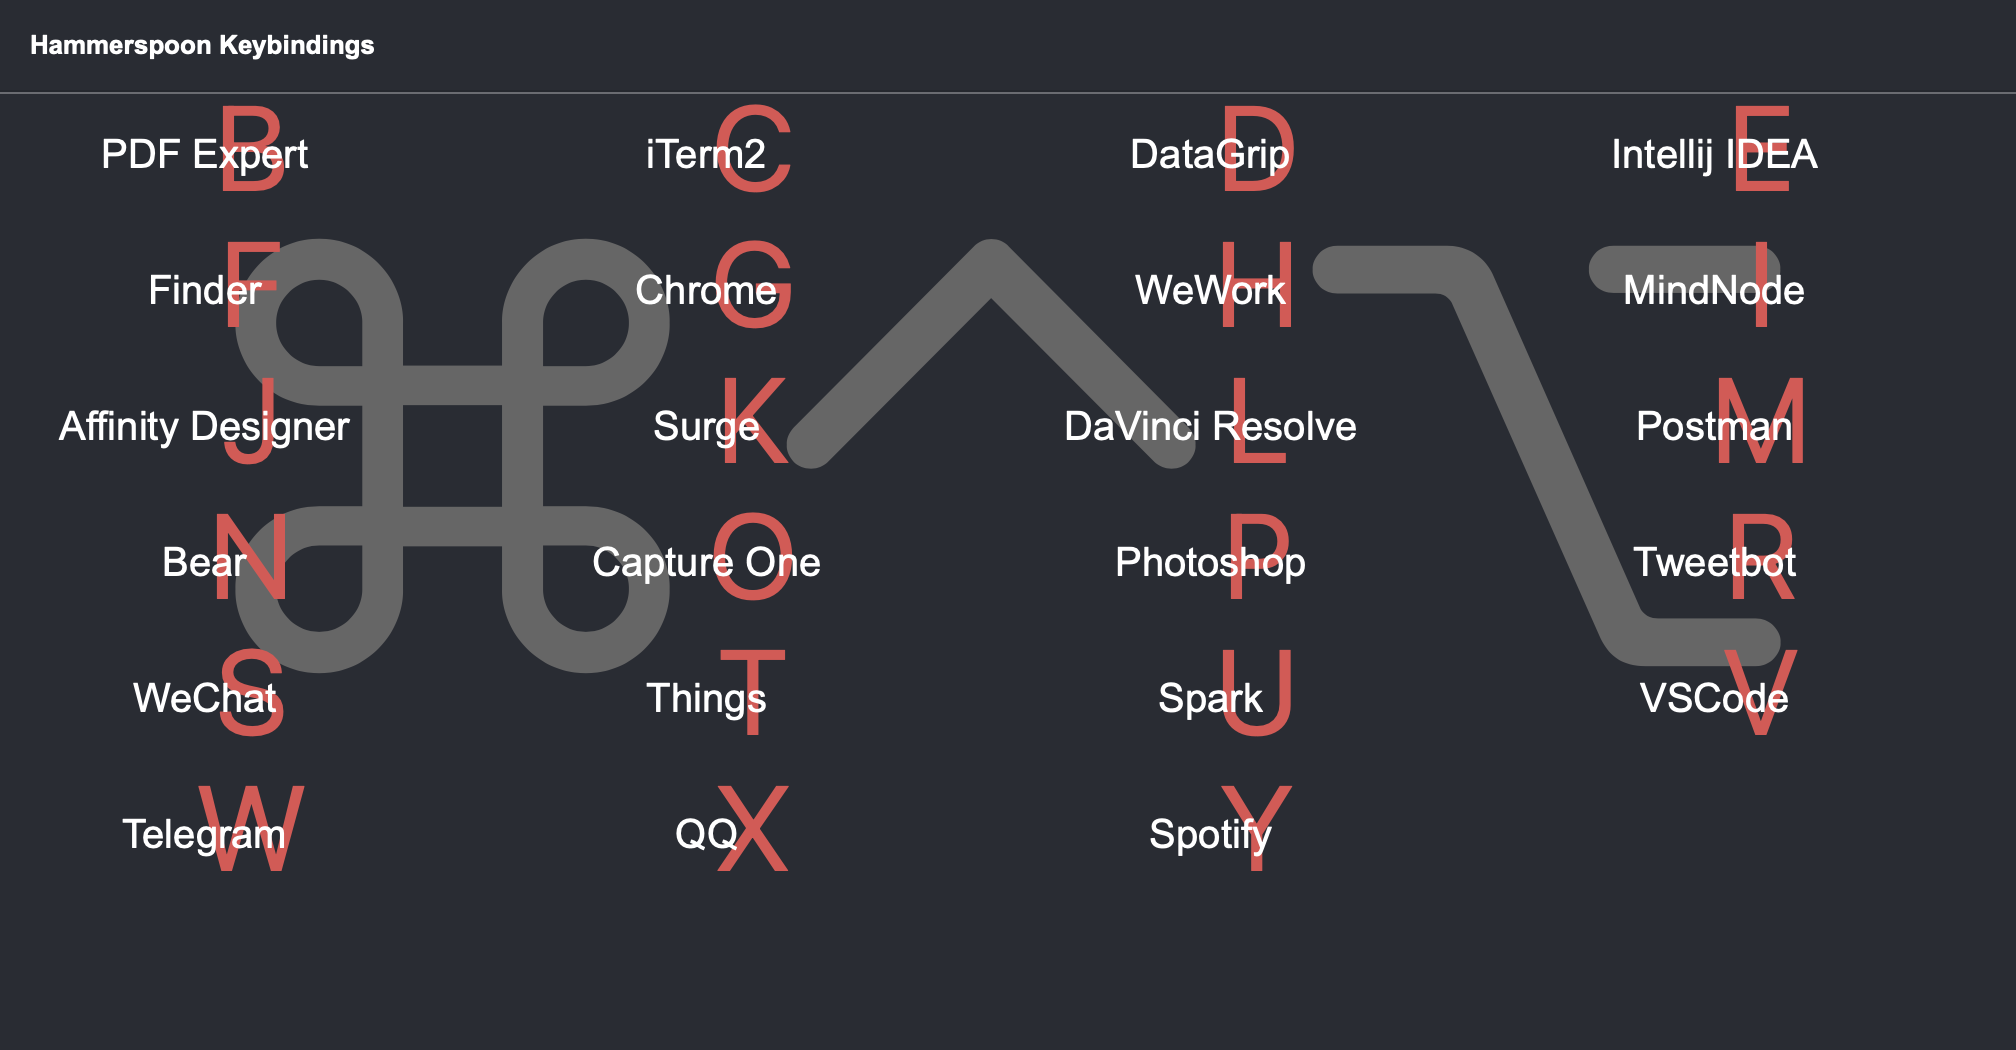
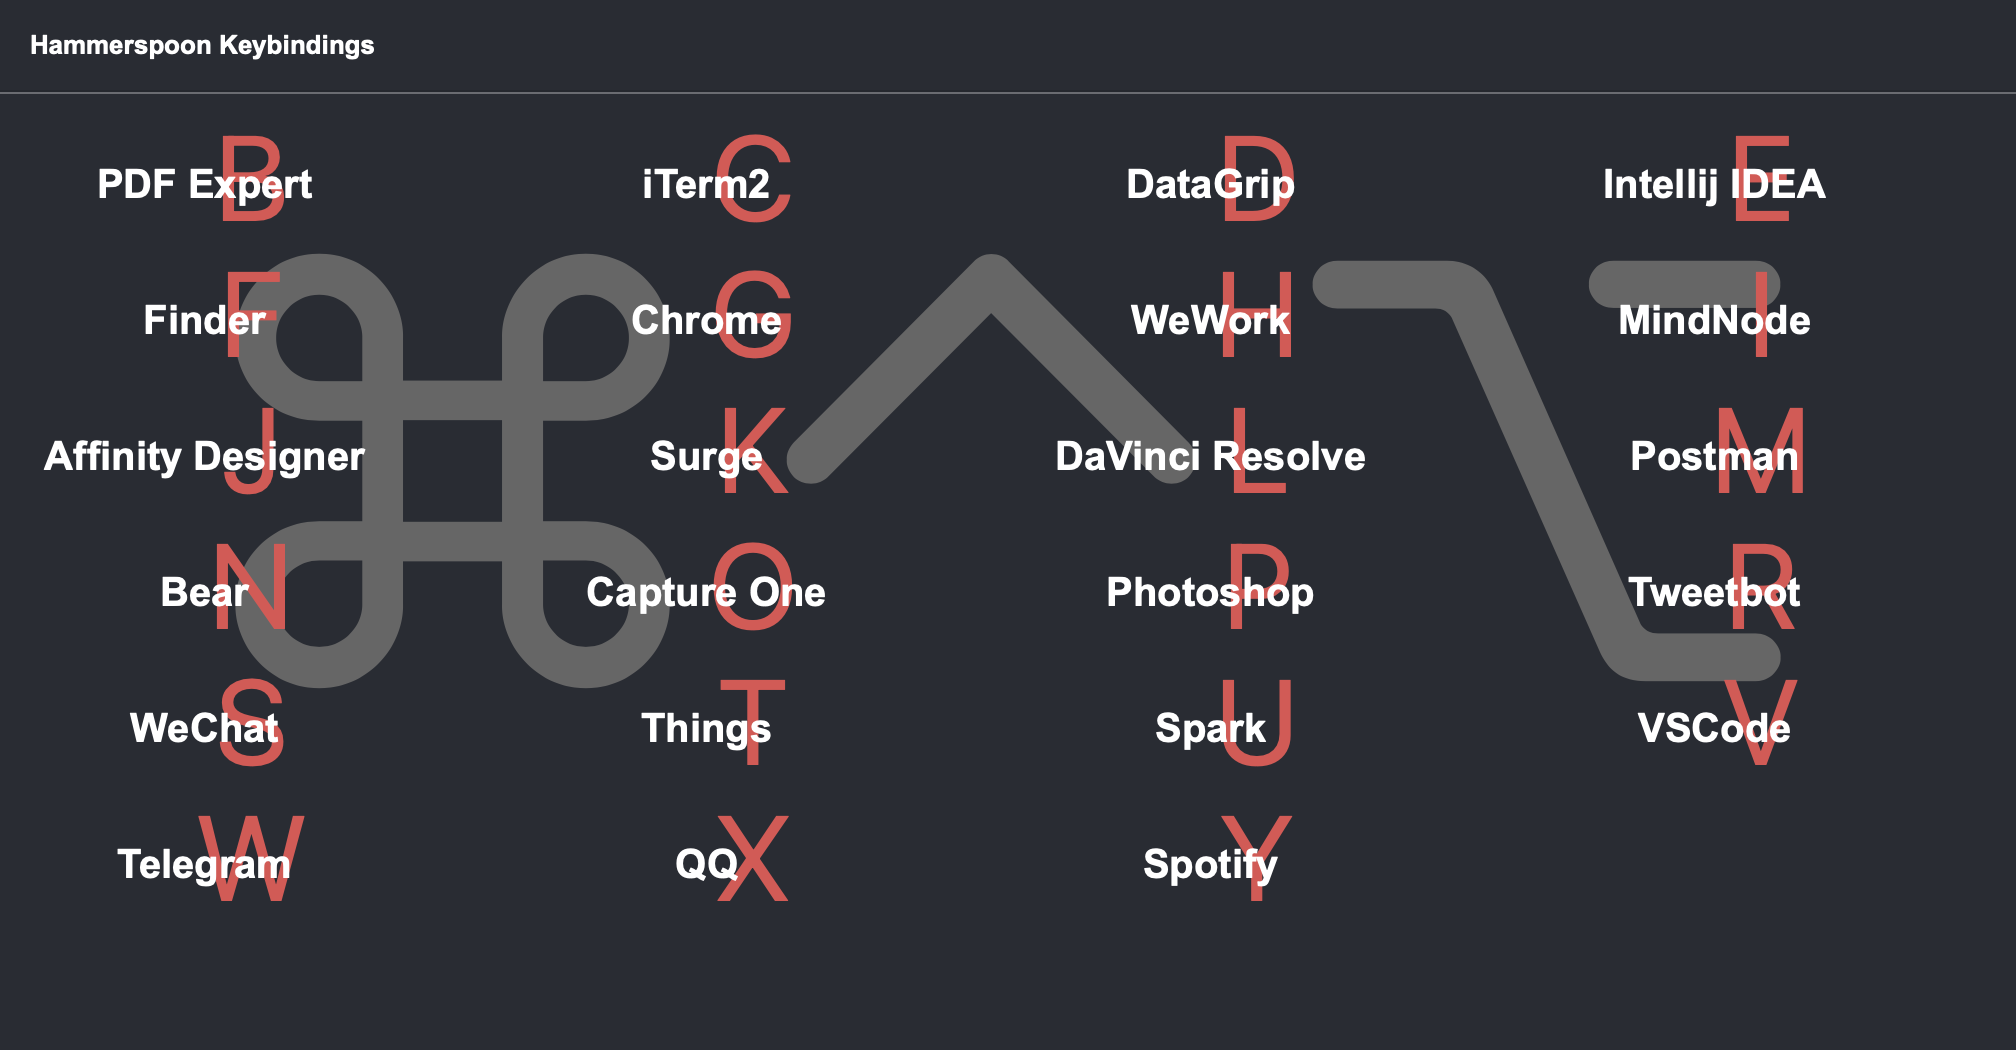
set font weight 900

Changed region(s): [[0.0, 0.0914, 0.9062, 0.8533], [0.7812, 0.0914, 0.9062, 0.3352], [0.5625, 0.0914, 0.6562, 0.2133]]

diff --git a/README.md b/README.md
@@ -2,7 +2,7 @@
 
 ## iTerm2
 - ohmyzsh
-- Font: [FiraCode](https://github.com/tonsky/FiraCode)
+- font: [FiraCode](https://github.com/tonsky/FiraCode)
 
 ## HammerSpoon
 ![](images/Modifier-Keys.png)
